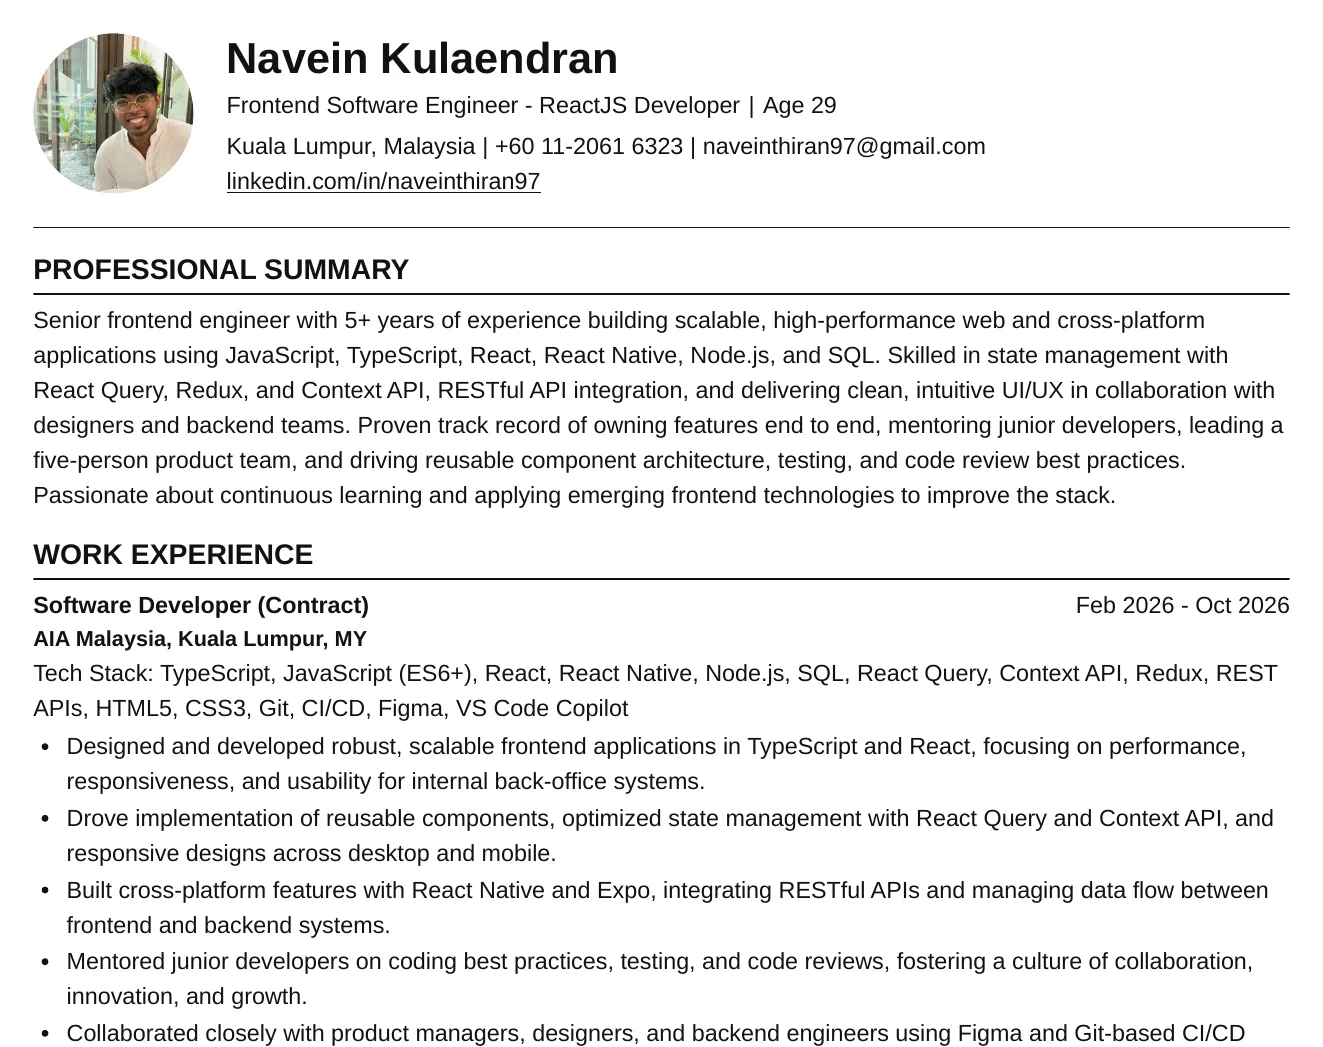
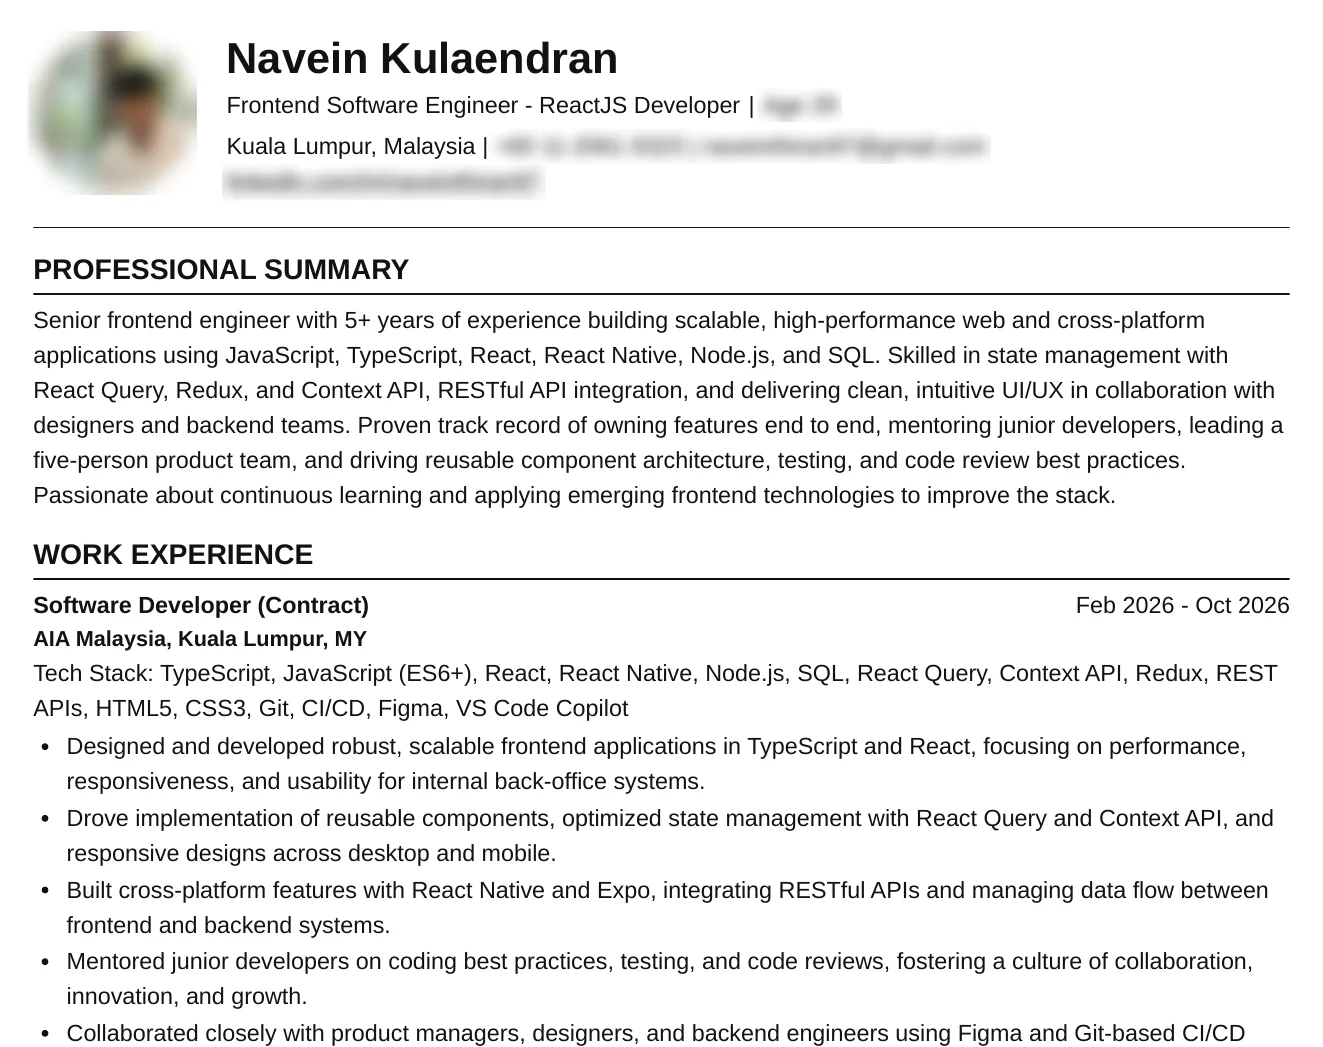
link display picture

Changed region(s): [[0.0, 0.0306, 0.7438, 0.2139]]

diff --git a/index.html b/index.html
@@ -6,8 +6,13 @@
 <title>Navo Studio — Websites, Apps & Promo Videos</title>
 <meta name="description" content="Navo Studio builds websites, mobile apps, promo videos, branding and social media content for growing businesses. Websites from RM149/month. Based in Kuala Lumpur, working worldwide.">
 <meta property="og:title" content="Navo Studio — Websites, Apps & Promo Videos">
-<meta property="og:description" content="Websites from RM149/month. Mobile apps, promo videos and setup guides. Kuala Lumpur, working worldwide.">
-<meta property="og:image" content="assets/promo.jpg">
+<meta property="og:description" content="Websites from RM149/month. Resumes tailored to every job, mobile apps and promo videos. Kuala Lumpur, working worldwide.">
+<meta property="og:type" content="website">
+<meta property="og:url" content="https://navo-studio.vercel.app/">
+<meta property="og:image" content="https://navo-studio.vercel.app/assets/og.jpg">
+<meta property="og:image:width" content="1200">
+<meta property="og:image:height" content="630">
+<meta name="twitter:card" content="summary_large_image">
 <link rel="preconnect" href="https://fonts.googleapis.com">
 <link href="https://fonts.googleapis.com/css2?family=Bricolage+Grotesque:opsz,wght@12..96,500;12..96,700;12..96,800&family=Inter:wght@400;500;600&display=swap" rel="stylesheet">
 <style>
